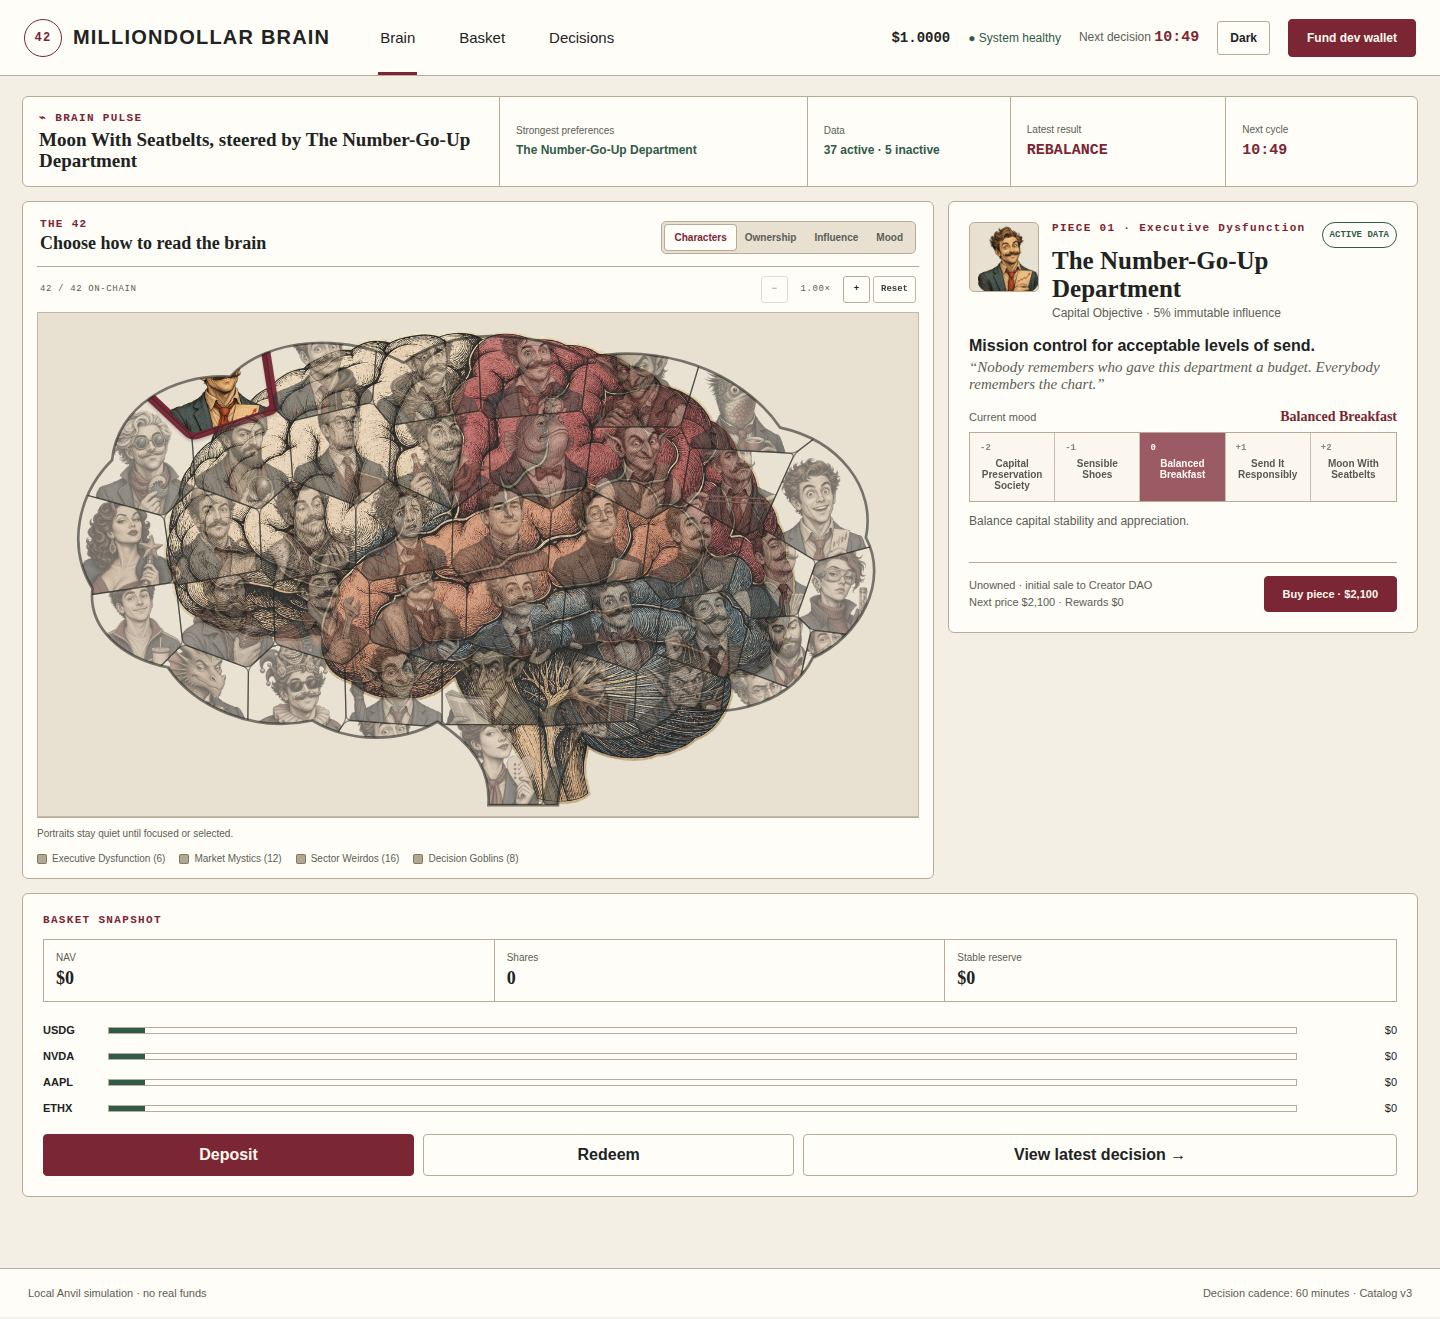
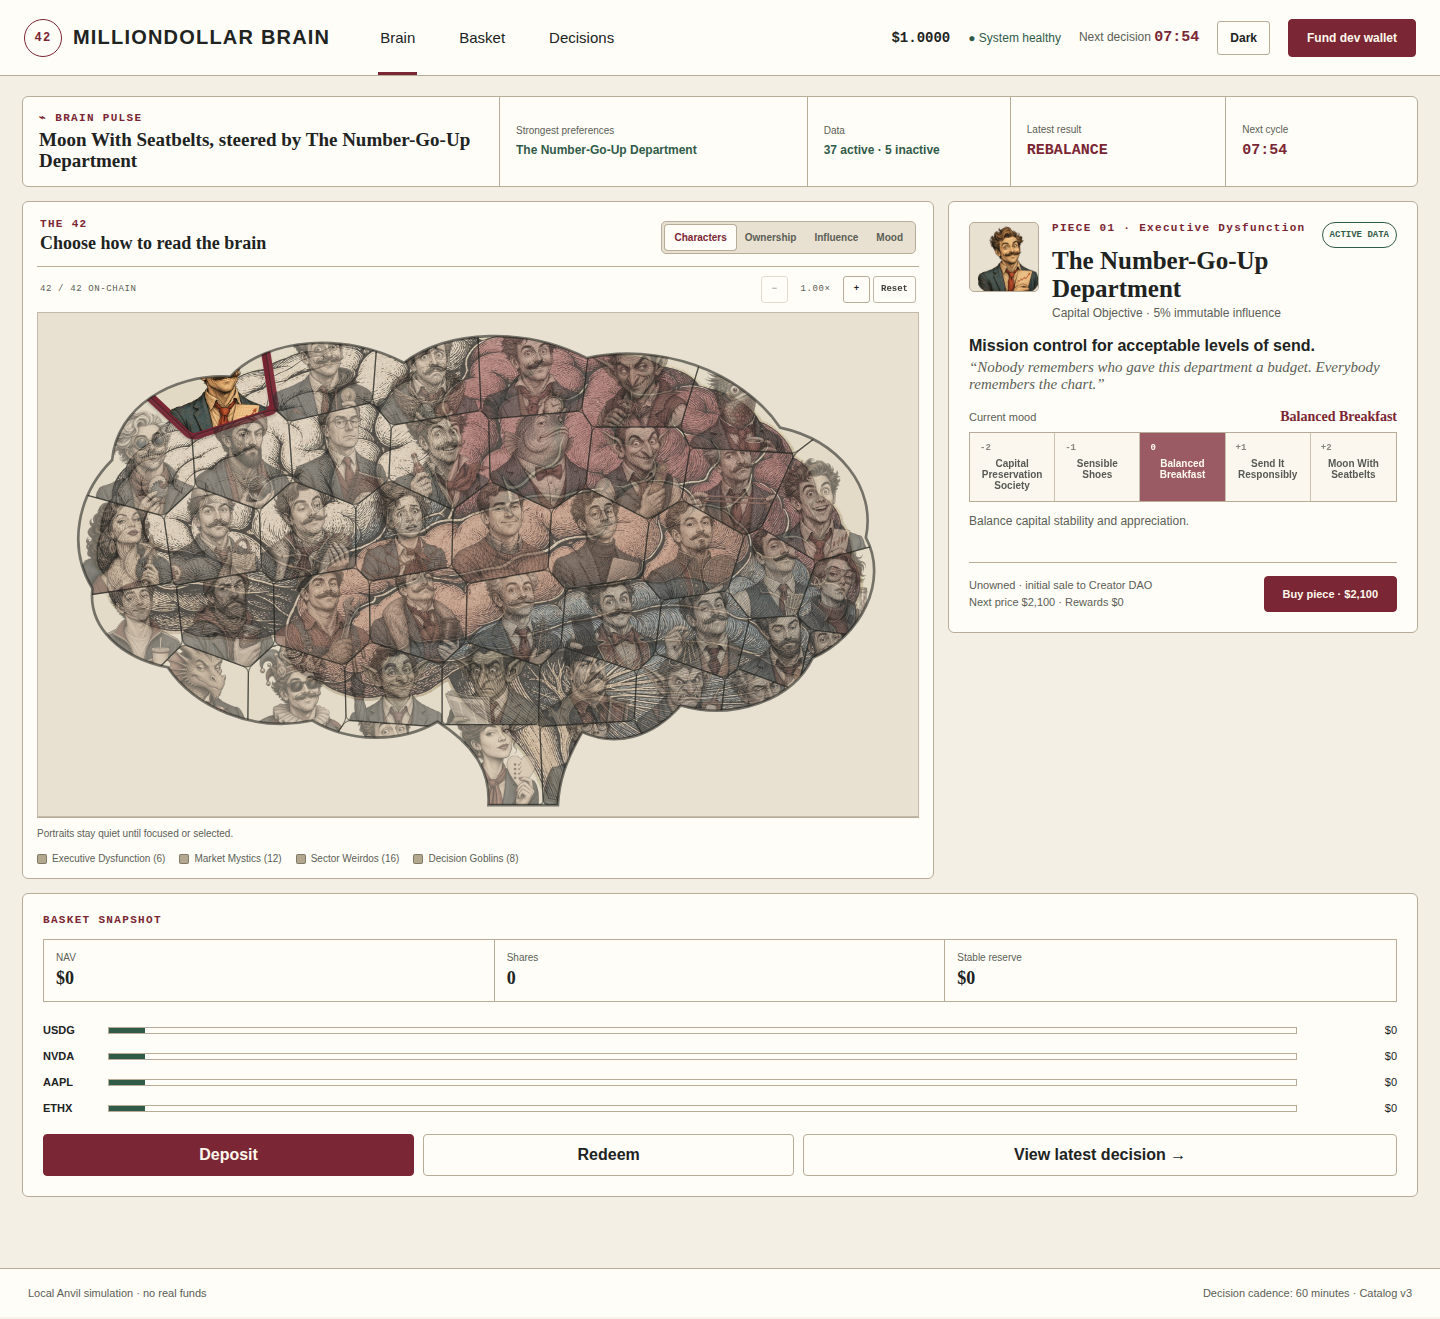
Align the brain background with the mosaic

Changed region(s): [[0.0625, 0.2487, 0.625, 0.6217]]

diff --git a/apps/web/components/brain-map.tsx b/apps/web/components/brain-map.tsx
@@ -258,14 +258,20 @@ export function BrainMap({
                   </clipPath>
                 ))}
               </defs>
+              <path
+                className="brain-backplate"
+                d={brainShape}
+                aria-hidden="true"
+              />
               <image
                 className="brain-illustration"
                 href="/brain-art/brain-base.webp"
-                x="28"
-                y="0"
-                width="704"
-                height="435"
-                preserveAspectRatio="xMidYMid meet"
+                x="-19"
+                y="1"
+                width="795"
+                height="434"
+                preserveAspectRatio="none"
+                clipPath="url(#brain-boundary)"
                 aria-hidden="true"
               />
               <g clipPath="url(#brain-boundary)">

diff --git a/apps/web/app/globals.css b/apps/web/app/globals.css
@@ -1412,13 +1412,20 @@ footer {
   width: 100%;
   max-height: none;
 }
+.brain-backplate {
+  fill: color-mix(in srgb, var(--surface-subtle) 82%, #c9b88f);
+  stroke: none;
+}
 .brain-illustration {
-  opacity: 0.88;
-  filter: saturate(0.7) contrast(0.98);
+  opacity: 0.74;
+  filter: saturate(0.52) contrast(0.9);
 }
 .editorial-dark .brain-illustration {
-  opacity: 0.72;
-  filter: saturate(0.65) brightness(0.82);
+  opacity: 0.55;
+  filter: saturate(0.42) brightness(0.76) contrast(0.92);
+}
+.editorial-dark .brain-backplate {
+  fill: color-mix(in srgb, var(--surface-subtle) 88%, #5b5143);
 }
 .brain-outline {
   fill: none;

diff --git a/MEMORY.md b/MEMORY.md
@@ -5,7 +5,7 @@ Durable project context lives here. Update this file whenever information should
 ## Active Handoff
 
 - Current task: Finish and verify the usable local-devnet release on VM `192.168.50.135`.
-- Last meaningful change: Replaced the numbered/glyph brain-map tiles with a generated editorial brain background and 42 unique catalog-character portraits while preserving the accessible 42-path SVG interaction, clipping, ownership, and selection layer.
+- Last meaningful change: Aligned and clipped the generated brain background to the exact 42-piece mosaic silhouette so its narrower source profile and cerebellum no longer fight the segment map.
 - Next step: Keep the native services healthy and use the release at `http://192.168.50.135:3000`; Robinhood public testnet work begins only when canonical asset, oracle, venue, signer, and RPC inputs are supplied.
 - Blockers: None for local use. Real-value activation remains gated on counsel, production integrations and credentials, multisig/timelock migration, a professional audit, and Robinhood Chain release manifests.
 
@@ -205,6 +205,7 @@ When sources conflict, use this order:
 - 2026-07-26: Replaced the settings-like three-option brain with catalog v3. All 42 ERC-721 pieces now have a unique character name, glyph, crew, tagline, lore, and five closed moods mapped to signed -2/-1/0/+1/+2 effects. Added crew filters, full light/dark collectible cards, and cycle explanations naming the character and mood. Foundry, production build, and Chromium UAT pass; live Ornith records include `The Number-Go-Up Department`, `Moon With Seatbelts`, intensity 2, and the resulting on-chain allocation.
 - 2026-07-26: Fixed a visual implementation defect where the live app had replaced the normative brain with a long card grid. Added `brain-map.tsx` with exactly 42 keyboard-operable SVG paths, `editorial-dashboard.tsx` with Brain, Basket, and Decisions views, Brain Pulse, selected-character five-mood ledger, basket snapshot, and explicit Brain requested / Ornith proposed / Protocol executed stages. Chromium UAT counts all 42 SVG segments and completes the full economic flow in both themes; visual screenshots were compared against all three accepted editorial screen directions.
 - 2026-07-26: Rebuilt the Brain screen around 42 individually generated v2 engraved character portraits and a separate presentation manifest. Non-overlapping rounded Voronoi-like segments preserve the recognizable brain silhouette while Characters, Ownership, Influence, and Mood views expose different readings. Added a compact Brain Pulse strip, complete right-rail inspector, tooltip preview, roving directional keys, Home/End, 1x through 2.5x native-scroll zoom, and a searchable mobile List view. Removed the superseded v1 portraits only after v2 references and assets passed UAT. Production build, Prettier, 5 Foundry tests, transparent 384x384 asset checks, economic Chromium UAT, a live Ornith cycle, light/dark screenshots, mobile overflow, and raw-unit price regressions all pass.
+- 2026-07-26: Fixed the generated brain background fit. Its source alpha bounds and anatomical proportions were narrower than the mosaic, and it rendered outside the shared mask. `brain-map.tsx` now maps the source alpha bounds to the mosaic extent, clips the image with `brain-boundary`, and adds a theme-aware backplate. The mosaic geometry and economics are unchanged.
 - 2026-07-12: Reset stale project-specific memory while retaining the durable memory-management logic.
 - 2026-07-23: Produced the initial MillionDollar Brain product brief without building or deploying anything.
 
